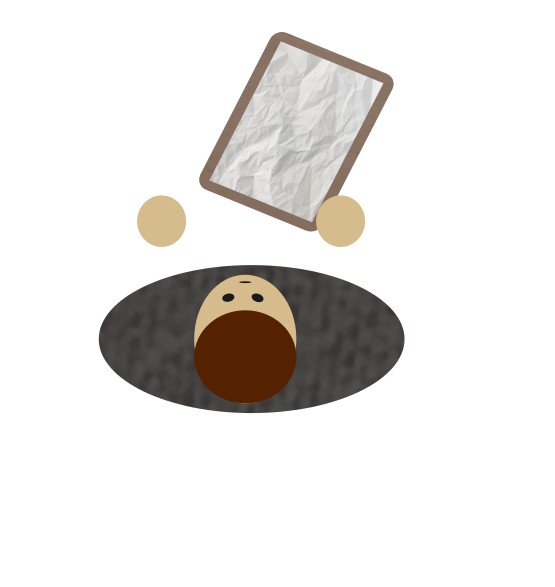
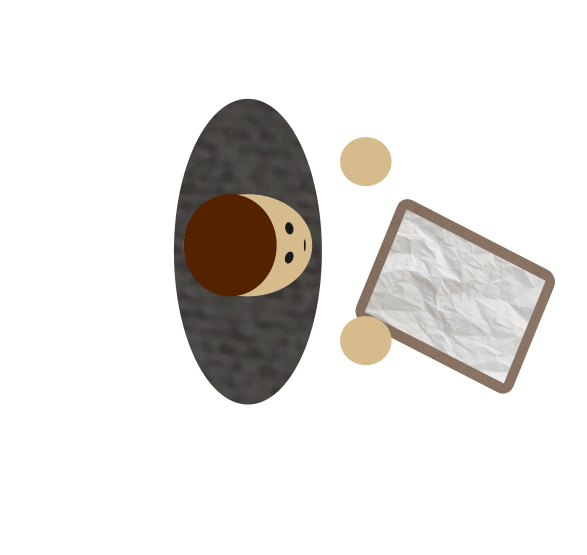
Adding manager texture

Changed region(s): [[0.1532, 0.0306, 0.9495, 0.7351]]

diff --git a/src/drawing.rs b/src/drawing.rs
@@ -344,14 +344,13 @@ impl Drawing {
             && self.start_wainting_passing != 0.
         {
             let bas = rand::gen_range(0, 2);
-            println!("{bas}");
             let passer = RandomPassing {
                 x: 220.,
                 y: if bas == 1 { 750. } else { -15. },
-                texture: if rand::gen_range(0, 1) == 1 {
+                texture: if rand::gen_range(0, 2) == 1 {
                     assets::EMPLOYEE_TEXTURE.clone()
                 } else {
-                    assets::EMPLOYEE_TEXTURE.clone() //TODO add manager skin
+                    assets::MANAGER_TEXTURE.clone() //TODO add manager skin
                 },
                 speed_factor: if bas == 1 { 1. } else { -1. },
             };

diff --git a/src/assets.rs b/src/assets.rs
@@ -10,6 +10,10 @@ lazy_static! {
         include_bytes!("../assets/employees/employee0_normal.png"),
         Some(ImageFormat::Png),
     );
+    pub static ref MANAGER_TEXTURE: Texture2D = Texture2D::from_file_with_format(
+        include_bytes!("../assets/employees/manager.png"),
+        Some(ImageFormat::Png),
+    );
     pub static ref OFFICE_TEXTURE: Texture2D = Texture2D::from_file_with_format(
         include_bytes!("../assets/office/office.png"),
         Some(ImageFormat::Png),
